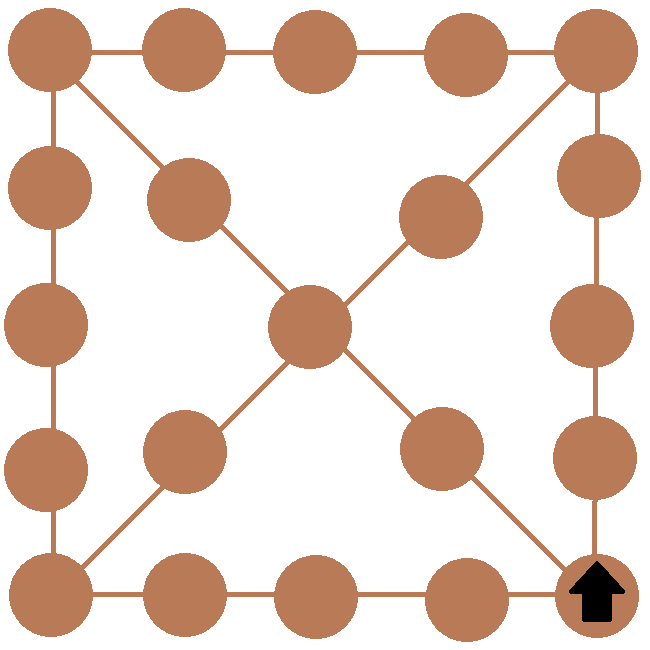
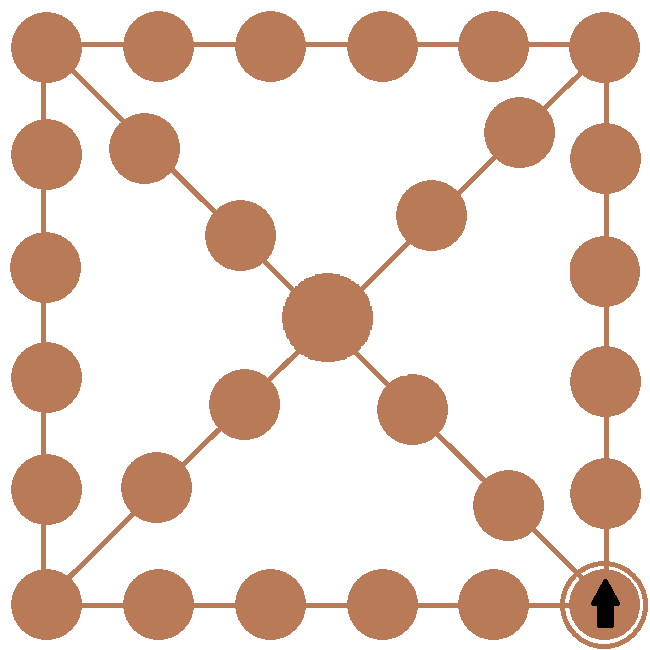
order(player 총 순서) 구현 : 여기서 하나씩 꺼내 쓰면 됨.

diff --git a/YutGame.py b/YutGame.py
@@ -48,6 +48,8 @@ class YutGame(Prototype):
     player_list = []
     computer_list = []
     computer_mee_list = [1, 2, 3, 4, 5, 6]
+    setcomputer = True
+    order = []  # 플레이어 총 순서
 
     def __init__(self):
         super().__init__()
@@ -86,7 +88,8 @@ class YutGame(Prototype):
         for color in self.meeple_color_list:
             self.meeple_button_list.append(Meeple.Meeple(color, 0))
 
-    def show_title_screen(self):  # 시작 화면 (규칙 설명으로 이동하고 다시 돌아 올 수 있음)
+    # 시작 화면 (규칙 설명으로 이동하고 다시 돌아 올 수 있음)
+    def show_title_screen(self):
         # 간단한 이벤트 부분 (start, help home 버튼 클릭)
         for event in pygame.event.get():
             # 창 닫기 누르면 끝 부분(ENDING_SCREEN)으로 넘어감
@@ -107,6 +110,7 @@ class YutGame(Prototype):
                 elif self.home_button.rect.collidepoint(event.pos):
                     self.home = True
                     self.help = False
+
         # 화면 출력 부분
         if self.home:  # 시작 화면과 시작 버튼, 도움 버튼
             self.screen.blit(self.background.put_image("start"), (0, 0))
@@ -118,7 +122,8 @@ class YutGame(Prototype):
             self.screen.blit(self.background.put_image("help"), (0, 0))
             self.screen.blit(self.home_button.image,
                              (self.home_button.x_pos, self.home_button.y_pos))
-    
+
+    # 플레이어 수, 게임말 개수 설정 화면
     def show_setting_screen(self):
         # 이벤트 처리
         for event in pygame.event.get():
@@ -168,7 +173,6 @@ class YutGame(Prototype):
         self.player_text = self.game_font.render(str(self.num_of_player), True, (0, 0, 0))
         self.computer_text = self.game_font.render(str(self.num_of_computer), True, (0, 0, 0))
         self.meeple_num = self.game_font.render(str(self.num_of_meeple), True, (0, 0, 0))
-
         if self.setting:
             self.screen.blit(self.background.put_image("setting"), (0, 0))
             self.button_screen_blit(self.next_button_up)
@@ -183,6 +187,7 @@ class YutGame(Prototype):
             self.screen.blit(self.meeple_num, (735, 540))
             self.init_text = self.num_of_player
 
+    # 플레이어마다 게임말 선택
     def show_meeple_screen(self):
         # 이벤트 처리
         for event in pygame.event.get():
@@ -191,14 +196,17 @@ class YutGame(Prototype):
                 self.meeple_screen = False
                 self.ending_screen = True
             elif event.type == pygame.MOUSEBUTTONDOWN:
-                # 시작버튼 누르면 중간부분(game_screen)의 보드판 화면으로 넘어감
+                temp = []
+                # 플레이어 수만큼 이미지 선택 + player_list에 초기화
                 for mee in self.meeple_button_list:
                     if mee.rect.collidepoint(event.pos):
                         self.init_text -= 1
-                        self.player_list.append(Player.Player(self.meeple_button_list.index(mee)))
+                        self.player_list.append(Player.Player(self.num_of_meeple, mee.color))
                         print(self.meeple_button_list.index(mee))
                         self.computer_mee_list.remove(self.meeple_button_list.index(mee) + 1)
                         mee.set_void()
+
+                # 시작버튼 누르면 중간부분(game_screen)의 보드판 화면으로 넘어감
                 if self.next_button.rect.collidepoint(event.pos) and self.next_board:
                     self.meeple = False
                     self.meeple_screen = False
@@ -221,14 +229,16 @@ class YutGame(Prototype):
                 self.text_blit("player의 말을 골라주세요!", 255, 100, 100, self.screen_width / 2, 200)
             elif self.init_text != 0:
                 self.text_blit(str(self.init_text) + "명 더 골라주세요!", 255, 100, 100, 540, 200)
-            else:
+            elif self.setcomputer:
                 self.text_blit("말을 모두 골랐습니다! 다음으로 넘어가주세요.", 255, 100, 100, 540, 200)
                 self.next_board = True
                 com_mee_idx_list = random.sample(self.computer_mee_list, self.num_of_computer)
-                for i in com_mee_idx_list:
-                    self.computer_list.append(Computer.Computer(i - 1))
+                for mee in com_mee_idx_list:
+                    self.computer_list.append(Computer.Computer(self.num_of_meeple, self.meeple_button_list[mee-1].color))
+                    self.setcomputer = False
 
-    def show_game_screen(self):  # 게임 화면(윷놀이가 진행될 때의 화면)
+    # 게임 화면(윷놀이가 진행될 때의 화면)
+    def show_game_screen(self):
         if self.board:
             self.yut.yut_state_reset()  # 윷을 모두 앞으로 리셋
             self.screen.blit(self.background.put_image("board"), (0, 0))
@@ -261,6 +271,18 @@ class YutGame(Prototype):
                 self.yut.display_yut()
                 self.screen.blit(self.red_button.image,
                                  (self.red_button.x_pos, self.red_button.y_pos))
+
+    def set_order(self):
+        while len(self.computer_list)+len(self.player_list) != 0:
+            i = random.randrange(2)
+            if i == 0 and len(self.computer_list) != 0:
+                j = random.randrange(len(self.computer_list))
+                self.order.append(self.computer_list[j])
+                del self.computer_list[j]
+            elif i == 1 and len(self.player_list) != 0:
+                j = random.randrange(len(self.computer_list))
+                self.order.append(self.player_list[j])
+                del self.player_list[j]
 
     def main_events(self):
         for event in pygame.event.get():
@@ -358,4 +380,5 @@ class YutGame(Prototype):
 
 
 if __name__ == "__main__":
-    pass
+    test = YutGame()
+    print(test.computer_list)

diff --git a/gameBoard.py b/gameBoard.py
@@ -4,28 +4,25 @@ import pygame.image
 
 # 보드판 위치 (x, y)
 # 크기: 80 * 80
-x = -999
-board_pos = [
-    [(48, 48), (185, 50), (315, 55), (470, 50), (600, 50)],
-    [(50, 188), (190, 200), (x, x), (440, 217), (600, 175)],
-    [(45, 325), (x, x), (310, 330), (x, x), (590, 325)],
-    [(43, 470), (190, 455), (x, x), (440, 450), (595, 455)],
-    [(48, 595), (185, 595), (315, 595), (470, 595), (600, 595)],
-]
+
 """
-09 08 07 06 04
-11 10    05 03
-12    16    02
-13 15    17 01
-14 18 19 20 00
+10 09 08 07 06 05
+11 25       20 04
+12  26     21  03
+      22(27)
+13  23     28  02
+14 24       29 01
+15 16 17 18 19 00(30)
 """
 # 아래 board_map 은 위 00부터 20까지의 위치(칸)을 리스트로 넣어 놓은 것
-board_map = [board_pos[4][4], board_pos[3][4], board_pos[2][4], board_pos[1][4],
-             board_pos[0][4], board_pos[1][3], board_pos[0][3], board_pos[0][2],
-             board_pos[0][1], board_pos[0][0], board_pos[1][1], board_pos[1][0],
-             board_pos[2][0], board_pos[3][0], board_pos[4][0], board_pos[3][1],
-             board_pos[2][2], board_pos[3][3], board_pos[4][1], board_pos[4][2],
-             board_pos[4][3]]
+board_map = [
+    (602, 603), (607, 495), (608, 382), (605, 2270), (604, 160), (603, 52),
+    (490, 47), (377, 50), (267, 49), (151, 51), (40, 50), (39, 159),
+    (42, 273), (42, 383), (39, 494), (42, 610), (151, 611), (264, 610),
+    (379, 608), (488, 608), (513, 138), (425, 221), (323, 323), (239, 408),
+    (150, 493), (141, 152), (236, 239), (323, 323), (407, 415), (503, 510),
+    (600, 605)
+]
 # 게임 스크린에 맞도록 보드칸 위치 값 수정
 for x in range(len(board_map)):
     board_map[x] = list(board_map[x])

diff --git a/Player.py b/Player.py
@@ -1,14 +1,22 @@
 import os
-import pygame
+import Meeple
 
-class Player : # 플레이어 객체
-    x_pos = 0 # 객체의 x좌표
-    y_pos = 0 # 객체의 y좌표
-    pos = (x_pos, y_pos) # 객체의 좌표 튜플
-    path = os.path.dirname(os.path.abspath(__file__)) # 경로 받아오기
+
+# 플레이어 객체
+class Player:
+    x_pos = 0  # 객체의 x좌표
+    y_pos = 0  # 객체의 y좌표
+    pos = (x_pos, y_pos)  # 객체의 좌표 튜플
+    path = os.path.dirname(os.path.abspath(__file__))  # 경로 받아오기
     meeple = ["blue.png", "green.png", "purple.png", "red.png", "sky.png", "yellow.png"] # 말의 파일명 리스트
 
-    def __init__(self, mee) : # 정수로 meeple의 idx 받이오기
-        pygame.image.load(self.path+"/meeple/"+self.meeple[mee]) # 해당 말의 이미지 가져오기
+    def __init__(self, num_of_meeple=1, mycolor=""):
+        self.yut_result = []  # 던져서 나온 윷 결과를 저장함.
+        self.color = mycolor
+        self.state = 0  # 0=진행중, 1=1등, 2=2등, 3=3등, ...
+        self.meeples = []
+        for i in range(num_of_meeple):
+            self.meeples.append(Meeple.Meeple(self.color, 0, 0))
+
 
     

diff --git a/Meeple.py b/Meeple.py
@@ -1,5 +1,7 @@
 import os
 import pygame
+
+import gameBoard
 from gameBoard import board_map
 
 
@@ -31,10 +33,11 @@ class Meeple:
         "void": [pygame.image.load(path + "/meeple/void.png")]
     }
 
-    def __init__(self, color="red", pos=0):
+    def __init__(self, color="red", pos=0, state=0):
         self.color = color  # 내 게임 말의 색깔
         self.sum = 0  # 업은 수
         self.pos = pos  # 내가 현재 위치하는 칸
+        self.state = state  # 0=아직, 1=보드위, 2=통과
 
         self.image = self.mipple_images[color][self.sum]
         self.size = self.image.get_rect().size
@@ -46,11 +49,11 @@ class Meeple:
         self.rect.left = self.x_pos
         self.rect.top = self.y_pos
 
-    # 게임 말 이동 (num 만큼 칸을 이동함)
+    # 게임 말 이동 (num 만큼 칸을 이동함) (수정 필요)
     # ex) 도이면 num=1, 윷이면 num=4
     def move(self, num):
         self.pos += num
-        if self.pos >= 21:
+        if self.pos >= len(gameBoard.board_map):
             self.pos = 0
         self.x_pos = board_map[self.pos][0] - (self.width/2)
         self.y_pos = board_map[self.pos][1] - (self.height/2)

diff --git a/main.py b/main.py
@@ -20,7 +20,8 @@ while game.running:
         game.show_meeple_screen()
         pygame.display.update()
 
-    # 중간 부분
+    # 게임 중
+    game.set_order()
     while game.game_screen:
         game.main_events()  # 게임 이벤트 (게임 말 이동, 플레이어 순서 추가 예정)
         game.check()  # 승패 체크(미구현)
